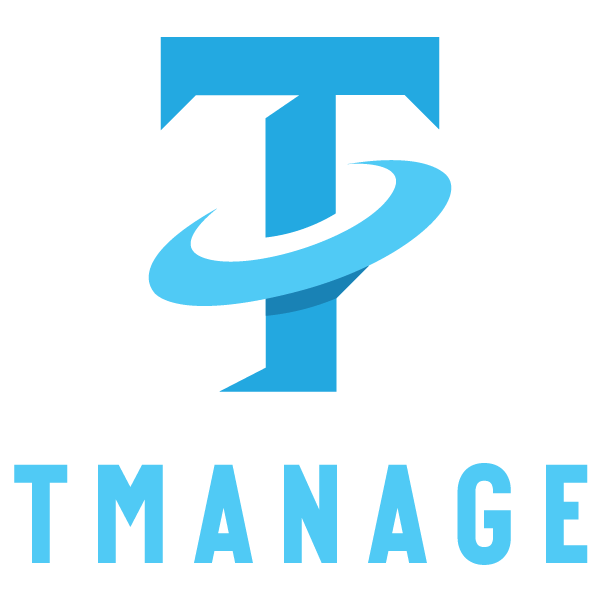
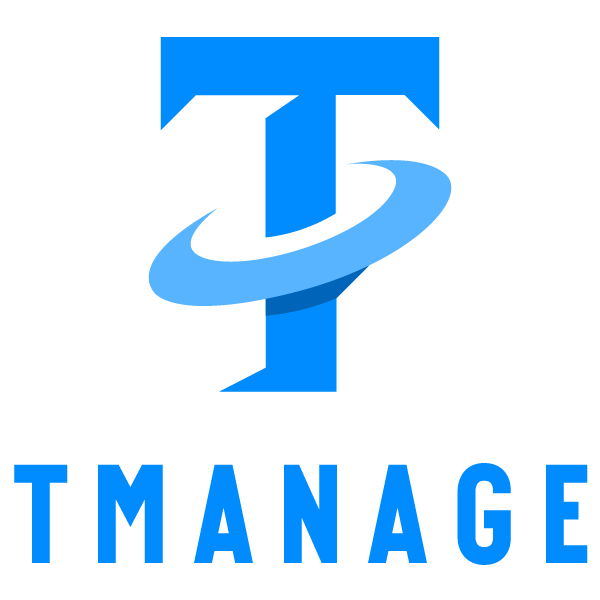
Update app structure, add Calendar and Login pages, fetch data from API in TestApi page.

diff --git a/src/Pages/Calendar.js b/src/Pages/Calendar.js
@@ -1,0 +1,129 @@
+import React from "react";
+import { Div, Text, Header, Button, Icon } from "react-native-magnus";
+import List from "../components/List/List";
+
+const Calendar = () => {
+  return (
+    <Div bg="#F2F5FF" h="100%">
+      <Div
+        bg="white"
+        roundedBottomLeft={25}
+        roundedBottomRight={25}
+        shadow="sm"
+      >
+        <Header
+          p="lg"
+          alignment="left"
+          shadow={0}
+          bg="white"
+          prefix={
+            <Button bg="transparent">
+              <Icon
+                name="arrow-back"
+                fontFamily="Ionicons"
+                fontSize={25}
+                color="#2E3A59"
+              />
+            </Button>
+          }
+          suffix={
+            <Button bg="transparent">
+              <Icon
+                name="search"
+                fontFamily="FontAwesome"
+                fontSize="2xl"
+                color="#2E3A59"
+              />
+            </Button>
+          }
+        ></Header>
+
+        <Div pt={15} px={20} pb={30}>
+          <Text fontSize={35} fontWeight="900" color="#2E3A59">
+            Mei 2024
+          </Text>
+
+          <Div row justifyContent="space-around" mt={20}>
+            <Div
+              w={50}
+              h={60}
+              rounded={20}
+              alignItems="center"
+              justifyContent="center"
+            >
+              <Text>Mo</Text>
+              <Text>3</Text>
+            </Div>
+            <Div
+              w={50}
+              h={60}
+              rounded={20}
+              alignItems="center"
+              justifyContent="center"
+            >
+              <Text>Tu</Text>
+              <Text>3</Text>
+            </Div>
+            <Div
+              bg="#99b5ff"
+              w={50}
+              h={60}
+              rounded={20}
+              alignItems="center"
+              justifyContent="center"
+            >
+              <Text>We</Text>
+              <Text>3</Text>
+            </Div>
+            <Div
+              w={50}
+              h={60}
+              rounded={20}
+              alignItems="center"
+              justifyContent="center"
+            >
+              <Text>Th</Text>
+              <Text>3</Text>
+            </Div>
+            <Div
+              w={50}
+              h={60}
+              rounded={20}
+              alignItems="center"
+              justifyContent="center"
+            >
+              <Text>Fr</Text>
+              <Text>3</Text>
+            </Div>
+            <Div
+              w={50}
+              h={60}
+              rounded={20}
+              alignItems="center"
+              justifyContent="center"
+            >
+              <Text>Sa</Text>
+              <Text>3</Text>
+            </Div>
+            <Div
+              w={50}
+              h={60}
+              rounded={20}
+              alignItems="center"
+              justifyContent="center"
+            >
+              <Text>Su</Text>
+              <Text>3</Text>
+            </Div>
+          </Div>
+        </Div>
+      </Div>
+      <Div pt={30} px={20}>
+        <Text fontSize={30} fontWeight="900" pb={30}>Tugas</Text>
+        <List title="Laporan" date="2 hari lalu" />
+      </Div>
+    </Div>
+  );
+};
+
+export default Calendar;

diff --git a/src/Pages/Login.js b/src/Pages/Login.js
@@ -1,0 +1,88 @@
+import React from "react";
+import { Image } from "react-native";
+import { Div, Text, Icon, Input, Button } from "react-native-magnus";
+const logo = require("./../../assets/logo.png");
+
+const Login = ({ navigation }) => {
+  return (
+    <Div h="100%" bg="#F2F5FF">
+      <Div mt={0} mx={20}>
+        <Div alignItems="center" mt={80} mb={30}>
+          <Image style={{ width: 170, height: 170 }} source={logo} />
+
+          <Text fontSize={35} fontWeight="400" color="#2E3A59">
+            Selamat Datang
+          </Text>
+          <Text fontSize={35} fontWeight="400">
+            di{" "}
+            <Text fontSize={35} color="#008CFF" fontWeight="900">
+              TManage
+            </Text>
+          </Text>
+        </Div>
+
+        <Input
+          placeholder="Nama"
+          p={10}
+          focusBorderColor="#008CFF"
+          prefix={
+            <Icon
+              name="user"
+              color="gray900"
+              fontFamily="Feather"
+              fontSize={17}
+            />
+          }
+          borderColor="#F2F5FF"
+          rounded={10}
+          mb={20}
+        />
+        <Input
+          placeholder="Kata Sandi"
+          p={10}
+          focusBorderColor="#008CFF"
+          secureTextEntry
+          prefix={
+            <Icon
+              name="form-textbox-password"
+              color="gray900"
+              fontFamily="MaterialCommunityIcons"
+              fontSize={17}
+            />
+          }
+          borderColor="#F2F5FF"
+          rounded={10}
+          mb={20}
+        />
+        <Button
+          w="100%"
+          h={50}
+          rounded={100}
+          bg="#008CFF"
+          fontWeight="900"
+          onPress={() => navigation.navigate("Home")}
+        >
+          Masuk
+        </Button>
+
+        <Text
+          my={10}
+          fontSize="lg"
+          fontWeight="bold"
+          color="#008CFF"
+          textDecorLine="underline"
+          textAlign="center"
+        >
+          Lupa Sandi?
+        </Text>
+      </Div>
+      {/* <Div bottom={0} position="absolute" w="100%" left="45%">
+        <Text fontSize="md" fontWeight="bold" color="#2E3A59">
+          2024
+        </Text>
+      </Div> */}
+    </Div>
+  );
+};
+
+export default Login;

diff --git a/src/Pages/TestApi.js b/src/Pages/TestApi.js
@@ -1,12 +1,51 @@
-import React from 'react'
-import { Div, Text } from 'react-native-magnus'
+import React, { useState, useEffect } from "react";
+import { ScrollView } from "react-native";
+import { Div, Text, Button } from "react-native-magnus";
+import axios from "axios";
 
 const TestApi = () => {
+  const [data, setData] = useState(null);
+
+  useEffect(() => {
+    // Fungsi untuk melakukan permintaan GET ke API
+    const fetchData = async () => {
+      try {
+        // Melakukan permintaan GET ke URL tertentu
+        const response = await axios.get(
+          "http://192.168.1.7:5000/get"
+        );
+        // Mengatur data yang diterima ke state
+        setData(response.data);
+      } catch (error) {
+        console.error("Error fetching data:", error);
+      }
+    };
+
+    // Panggil fungsi fetchData saat komponen di-mount
+    fetchData();
+
+    // Bersihkan efek saat komponen di-unmount
+    return () => {
+      setData(null);
+    };
+  }, []); // Dependensi kosong, artinya efek hanya dijalankan sekali saat komponen di-mount
+
   return (
     <Div>
-      <Text>Test</Text>
+      <Text>Data dari API:</Text>
+      <ScrollView>
+      {data && data.map((item) => (
+        <Div key={item._id} my={20}>
+          <Text>Nama: {item.name}</Text>
+          <Text>Alamat: {item.address}</Text>
+          <Text>Umur: {item.age}</Text>
+          <Text>Jenis Kelamin: {item.gender}</Text>
+          <Text>Devisi: {item.devision}</Text>
+        </Div>
+      ))}
+      </ScrollView>
     </Div>
-  )
-}
+  );
+};
 
-export default TestApi
+export default TestApi;

diff --git a/App.js b/App.js
@@ -6,6 +6,8 @@ import { ThemeProvider } from 'react-native-magnus';
 import * as NavigationBar from 'expo-navigation-bar';
 import Home from "./src/Pages/Home";
 import TestApi from "./src/Pages/TestApi";
+import Calendar from "./src/Pages/Calendar";
+import Login from "./src/Pages/Login";
 
 const Stack = createNativeStackNavigator()
 
@@ -20,6 +22,8 @@ export default function App() {
       <NavigationContainer>
         <Stack.Navigator screenOptions={{headerShown: false}}>
           <Stack.Screen name="Home" component={Home}/>
+          <Stack.Screen name="Calendar" component={Calendar}/>
+          <Stack.Screen name="Login" component={Login}/>
           <Stack.Screen name="Tes" component={TestApi}/>
         </Stack.Navigator>
       </NavigationContainer>

diff --git a/src/components/Navbar/NavbarBottom.js b/src/components/Navbar/NavbarBottom.js
@@ -21,7 +21,7 @@ const NavbarBottom = ({navigation}) => {
         />
       </TouchableOpacity>
 
-      <TouchableOpacity>
+      <TouchableOpacity onPress={() => navigation.navigate('Calendar')}>
         <Icon
           name="calendar"
           fontFamily="Ionicons"
@@ -31,7 +31,7 @@ const NavbarBottom = ({navigation}) => {
         />
       </TouchableOpacity>
 
-      <TouchableOpacity>
+      <TouchableOpacity onPress={() => navigation.navigate('Login')}>
         <Icon
           name="settings"
           fontFamily="Ionicons"

diff --git a/src/components/List/Lists.js b/src/components/List/Lists.js
@@ -11,7 +11,7 @@ const Lists = () => {
   return (
     <Div h={190}>
       <ScrollView showsVerticalScrollIndicator={false}>
-          <List title="Laporan" date="2 hari lalu" />
+        <List title="Laporan" date="2 hari lalu" />
         <List title="Laporan" date="baru saja" />
         <List title="Laporan" date="baru saja" />
       </ScrollView>

diff --git a/src/Pages/Home.js b/src/Pages/Home.js
@@ -6,7 +6,6 @@ import NavbarBottom from "../components/Navbar/NavbarBottom";
 import Filter from "../components/Filter";
 import Cards from "../components/Card/Cards";
 import Lists from "../components/List/Lists";
-import { TouchableOpacity } from "react-native";
 
 const Home = ({navigation}) => {
   return (
